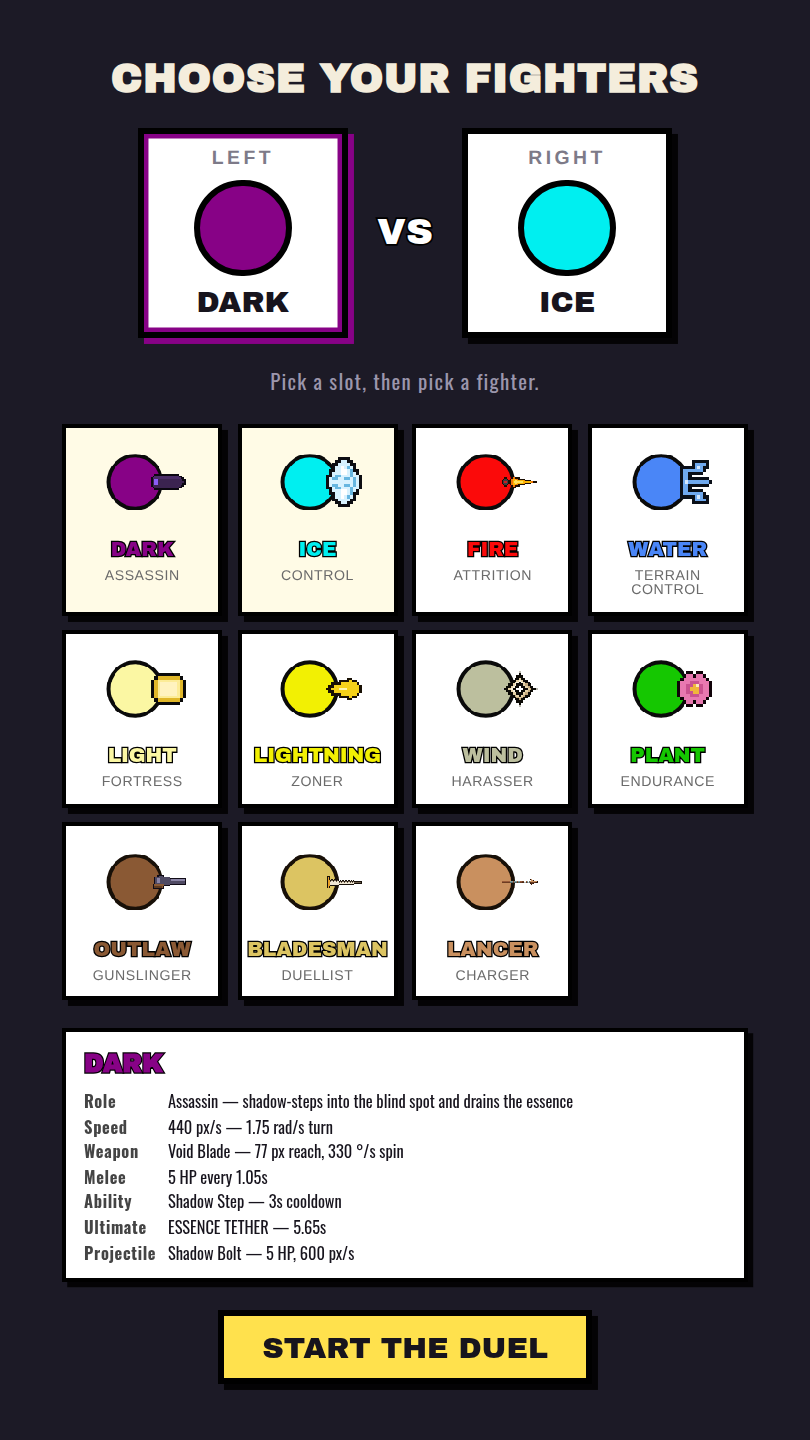
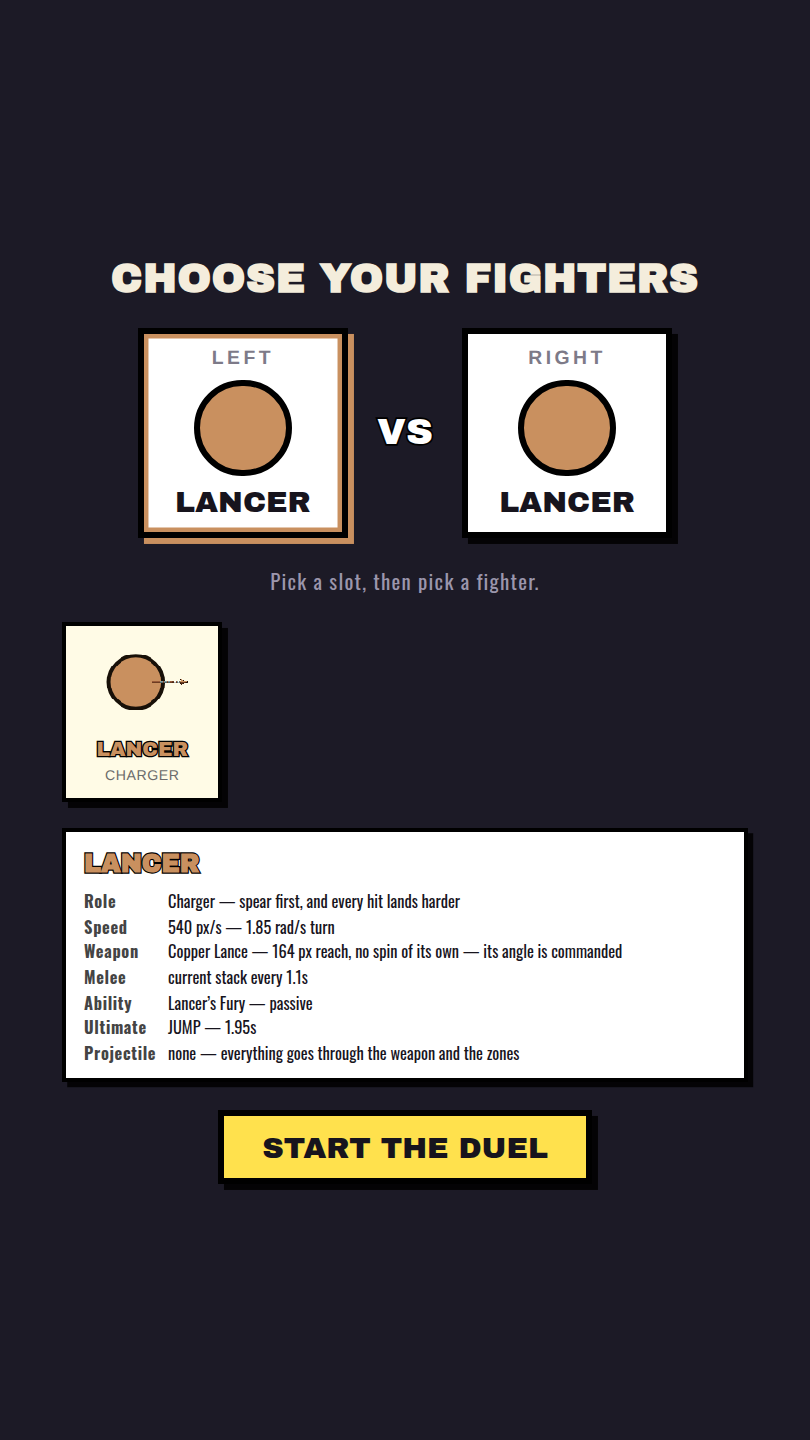
Désactive tous les combattants sauf le Lancier, de façon réversible
Un seul interrupteur, dans `elements.js` :

    export const DISABLED = deepFreeze(['shadow', 'ice', ...]);
    export const PLAYABLE = deepFreeze(ROSTER.filter((id) => !DISABLED.includes(id)));

Pour réactiver un combattant, retirer son identifiant. Pour tout réactiver,
vider la liste. Rien n'a été supprimé : `ELEMENTS` et `ROSTER` restent entiers,
et `PLAYABLE` est **dérivé** plutôt que recopié — deux listes tenues à la main
finissent par diverger, et l'écran afficherait alors une carte pour un
combattant que le moteur ne connaît plus.

Ce que ça touche : l'écran de sélection et le duel par défaut. Les deux prennent
maintenant leur valeur dans `PLAYABLE` au lieu d'un `['shadow', 'ice']` codé en
dur, qui aurait ouvert l'écran sur une sélection pointant hors de la grille.

Ce que ça ne touche **pas**, et c'est délibéré : l'outillage continue de lire
`ROSTER` en entier. `tools/matrix.mjs` est le garde-fou d'équilibrage — le
laisser tomber à un seul combattant perdrait la matrice de référence des dix
autres, donc obligerait à tout recaler à la réactivation. Elle est vérifiée
identique au fichier près, ce qui est la preuve que la réduction n'a déplacé
aucun équilibre. `lang-check.mjs` vérifie toujours les onze fiches, pour qu'une
fiche désactivée ne pourrisse pas en silence. L'accès par URL reste ouvert
(`?a=fire&b=ice`) : la désactivation porte sur la vitrine, pas sur le moteur,
ce qui permet de continuer à tester un combattant sans le remettre en avant.
[…]

diff --git a/src/ui/select.js b/src/ui/select.js
@@ -8,7 +8,7 @@
  * @module ui/select
  */
 
-import { ELEMENTS, ROSTER } from '../data/elements.js';
+import { ELEMENTS, PLAYABLE } from '../data/elements.js';
 import { UI, label } from './lang.js';
 import { PIXEL_MAPS } from '../data/pixelmaps.js';
 import { compilePixelMap } from '../render/pixelart.js';
@@ -27,11 +27,14 @@ export function createSelectScreen({ root, onStart, lang = 'ref' }) {
   const startBtn = root.querySelector('#btn-start');
 
   /** @type {{a:string|null,b:string|null}} */
-  const picks = { a: 'shadow', b: 'ice' }; // duel par défaut : celui de la vidéo
+  // Duel par défaut. Il se prend dans `PLAYABLE` et non en dur : avec un
+  // roster réduit, un défaut codé en dur pointerait sur une carte absente de
+  // la grille, et l'écran s'ouvrirait sur une sélection impossible à défaire.
+  const picks = { a: PLAYABLE[0], b: PLAYABLE[1] ?? PLAYABLE[0] };
   let active = 'a';
 
   // --- cartes du roster
-  for (const id of ROSTER) {
+  for (const id of PLAYABLE) {
     const el = ELEMENTS[id];
     const card = document.createElement('button');
     card.type = 'button';
@@ -139,9 +142,15 @@ function tagline(el, lang) {
 
 /**
  * Ligne « rotation » de la fiche.
- * Une arme à `spin: 0` n'est pas une arme immobile : elle est braquée par son
- * module de pouvoirs (le revolver du Hors-la-loi suit sa cible à chaque image).
- * Afficher « rotation 0 °/s » se lisait comme un bug.
+ * Une arme à `spin: 0` n'est pas une arme immobile : son angle est piloté par
+ * son module de pouvoirs. Afficher « rotation 0 °/s » se lisait comme un bug.
+ *
+ * Le libellé dit « son angle est piloté » et **pas** « braquée sur la cible » :
+ * les deux armes à `spin: 0` ne visent pas la même chose. Le revolver du
+ * Hors-la-loi suit son adversaire à chaque image, la lance du Lancier suit son
+ * **cap de déplacement** — c'est tout le relevé du personnage. L'ancien libellé
+ * était donc devenu faux pour la moitié des armes concernées, et ça ne s'est vu
+ * qu'en réduisant le roster au seul Lancier, où sa fiche passe au premier plan.
  */
 function spinLine(w, t) {
   if (!w.spin) return t.spinNone;

diff --git a/src/data/elements.js b/src/data/elements.js
@@ -2063,6 +2063,56 @@ export const ROSTER = deepFreeze([
   'lancer',
 ]);
 
+/**
+ * Combattants **temporairement désactivés**.
+ *
+ * Rien n'est supprimé : `ELEMENTS` et `ROSTER` restent entiers. Cette liste ne
+ * retire les combattants que de ce qui est **jouable** — écran de sélection et
+ * duel par défaut. C'est volontaire, et c'est ce qui rend la manœuvre
+ * réversible sans rien reconstruire.
+ *
+ * **L'outillage continue de lire `ROSTER` en entier**, et il le faut :
+ * `tools/matrix.mjs` est le garde-fou d'équilibrage, et le laisser tomber à un
+ * seul combattant reviendrait à perdre la matrice de référence des dix autres
+ * — donc à devoir tout recaler à la réactivation. De même `lang-check.mjs`
+ * vérifie les onze fiches, pour qu'une fiche désactivée ne pourrisse pas en
+ * silence.
+ *
+ * **Pour réactiver :** retirer l'identifiant de cette liste. Pour tout
+ * réactiver d'un coup, la vider — `export const DISABLED = deepFreeze([]);`.
+ *
+ * Les identifiants désactivés restent accessibles par URL (`?a=fire&b=ice`) :
+ * la désactivation porte sur l'écran de sélection, pas sur le moteur, ce qui
+ * permet de continuer à tester un combattant sans le remettre en vitrine.
+ */
+export const DISABLED = deepFreeze([
+  'shadow',
+  'ice',
+  'fire',
+  'water',
+  'light',
+  'lightning',
+  'wind',
+  'plant',
+  'outlaw',
+  'bladesman',
+]);
+
+/**
+ * Le roster **jouable** : `ROSTER` moins `DISABLED`, dans le même ordre.
+ *
+ * Dérivé plutôt que recopié : deux listes tenues à la main finissent par
+ * diverger, et l'écran de sélection afficherait alors une carte pour un
+ * combattant que le moteur ne connaît plus.
+ */
+export const PLAYABLE = deepFreeze(ROSTER.filter((id) => !DISABLED.includes(id)));
+
+if (PLAYABLE.length === 0) {
+  // Un roster jouable vide donne un écran de sélection blanc et un plantage à
+  // la première partie : mieux vaut le dire ici.
+  throw new Error('DISABLED désactive tout le roster — il faut au moins un combattant.');
+}
+
 /** @param {string} id */
 export function getElement(id) {
   const el = ELEMENTS[id];

diff --git a/src/ui/lang.js b/src/ui/lang.js
@@ -49,7 +49,7 @@ export const UI = {
     speedLine: (v, turn) => `${v} px/s — ${turn} rad/s turn`,
     /** @param {string} name @param {number} reach @param {string} spin */
     weaponLine: (name, reach, spin) => `${name} — ${reach} px reach, ${spin}`,
-    spinNone: 'locked on target, no spin of its own',
+    spinNone: 'no spin of its own — its angle is commanded',
     /** @param {number} deg */
     spinLine: (deg) => `${deg} °/s spin`,
     /** @param {string} dmg @param {number} cd */
@@ -107,7 +107,7 @@ export const UI = {
     sheetProjectile: 'Projectile',
     speedLine: (v, turn) => `${v} px/s — virage ${turn} rad/s`,
     weaponLine: (name, reach, spin) => `${name} — portée ${reach} px, ${spin}`,
-    spinNone: 'arme braquée, sans rotation propre',
+    spinNone: 'sans rotation propre — son angle est piloté',
     spinLine: (deg) => `rotation ${deg} °/s`,
     meleeLine: (dmg, cd) => `${dmg} toutes les ${cd}s`,
     meleeStack: 'pile courante',

diff --git a/src/main.js b/src/main.js
@@ -17,7 +17,7 @@ import { createLoop } from './core/loop.js';
 import { loadSprites } from './render/sprites.js';
 import { ensureFonts } from './core/fonts.js';
 import { createRng, seedFromLocation } from './core/rng.js';
-import { ELEMENTS } from './data/elements.js';
+import { ELEMENTS, PLAYABLE } from './data/elements.js';
 import { Match } from './game/match.js';
 import { createSelectScreen } from './ui/select.js';
 import { createResultScreen } from './ui/result.js';
@@ -77,7 +77,9 @@ const resultScreen = createResultScreen({
 });
 
 /** @type {[string,string]} */
-let lastPair = ['shadow', 'ice'];
+// Pris dans `PLAYABLE` : codé en dur, il pointerait sur un combattant
+// désactivé et le premier duel partirait hors du roster affiché.
+let lastPair = [PLAYABLE[0], PLAYABLE[1] ?? PLAYABLE[0]];
 let lastSeed = 0;
 
 /**

diff --git a/CLAUDE.md b/CLAUDE.md
@@ -163,6 +163,43 @@ La charge sur cap en donne davantage : à 16 le Lancier monte à 19 victoires su
 
 ---
 
+## Roster réduit — temporaire
+
+**Seul le Lancier est jouable.** Les dix autres sont désactivés dans
+`elements.js` via `DISABLED`, le temps de travailler le Lancier seul.
+
+```js
+// src/data/elements.js
+export const DISABLED = deepFreeze(['shadow', 'ice', ...]);  // en retirer un = le réactiver
+export const PLAYABLE = deepFreeze(ROSTER.filter((id) => !DISABLED.includes(id)));
+```
+
+**Pour tout réactiver : vider la liste** — `export const DISABLED = deepFreeze([]);`.
+Rien d'autre à faire, et rien n'a été supprimé.
+
+Ce que la désactivation touche, et ce qu'elle ne touche pas :
+
+| Touché | Intact |
+| --- | --- |
+| écran de sélection (`ui/select.js` lit `PLAYABLE`) | `ELEMENTS` et `ROSTER`, entiers |
+| duel par défaut (`main.js`) | `tools/matrix.mjs` — mesure toujours les **onze** |
+| | `tools/lang-check.mjs` — vérifie toujours les onze fiches |
+| | l'accès par URL : `?a=fire&b=ice` marche encore |
+
+**C'est délibéré que l'outillage ignore `DISABLED`.** La matrice est le
+garde-fou d'équilibrage : la laisser tomber à un seul combattant perdrait la
+référence des dix autres, et il faudrait tout recaler à la réactivation. De
+même, `lang-check` continue de vérifier les onze fiches pour qu'une fiche
+désactivée ne pourrisse pas en silence. `tools/matrix-reference.txt` est donc
+**inchangée**, et c'est la preuve que la réduction n'a touché aucun équilibre.
+
+Conséquence à connaître : le duel par défaut est un **miroir**, Lancier contre
+Lancier. Il tourne, mais les deux camps sont visuellement identiques — même
+bille cuivre, même titre. Le HUD reste le seul repère (jauge et ligne de stat à
+gauche = camp A). Ça se résout tout seul à la réactivation.
+
+---
+
 ## Langue
 
 **L'application est en anglais, le dépôt est en français.** Deux règles
